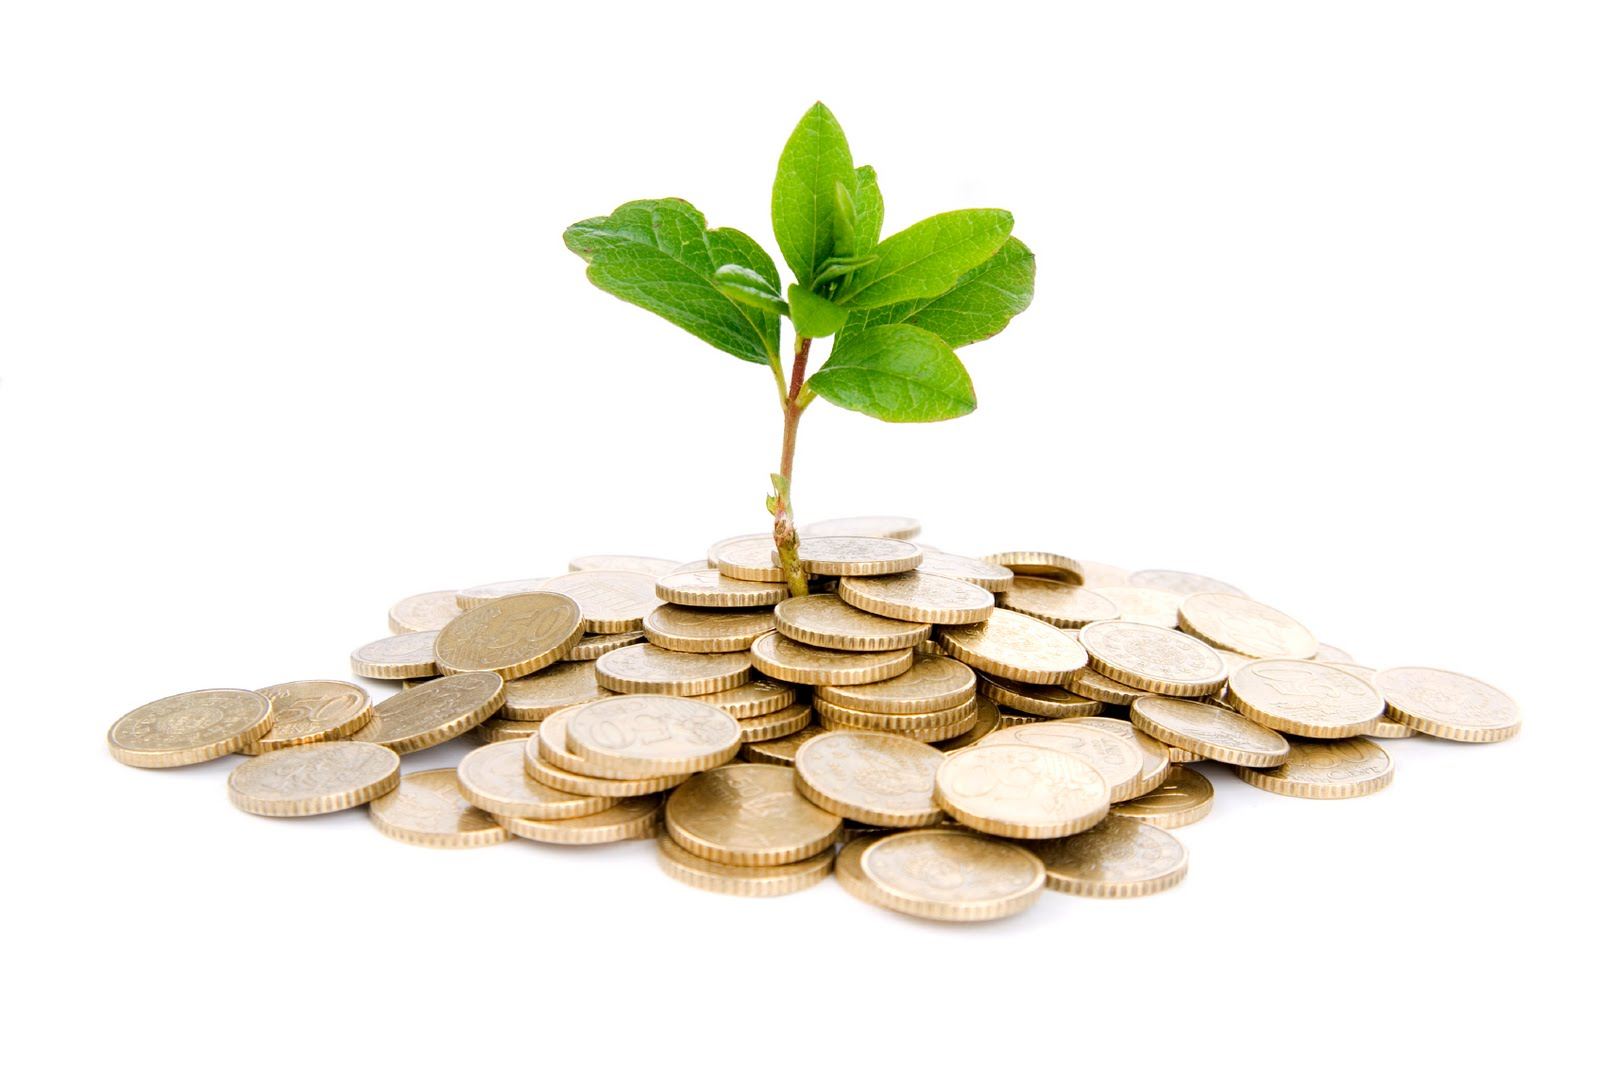
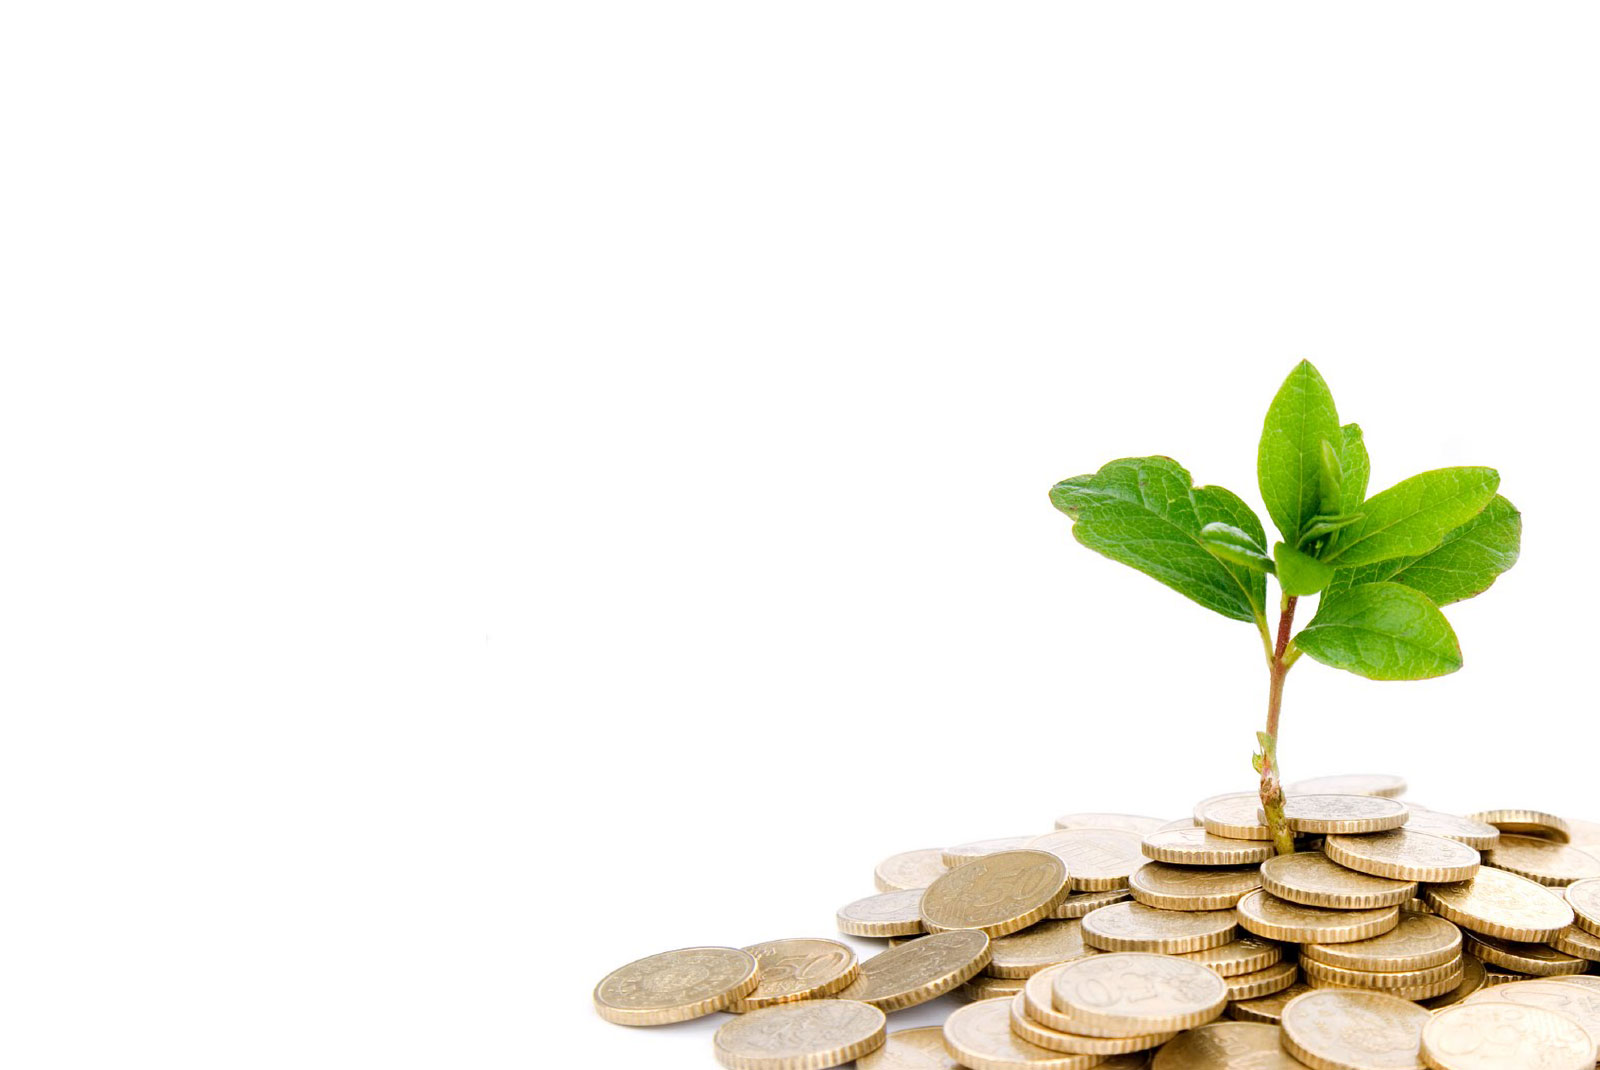
new bg

diff --git a/MySavings/css/default.css b/MySavings/css/default.css
@@ -1,7 +1,8 @@
 #contenthost {
     height: 100%;
     width: 100%;
-    background: url("../images/treemoney.jpg") repeat scroll 0 0 #F3F3F3;
+    background: url("../images/treemoney.jpg");
+    background-position:right bottom; 
     color: #000;
 }
 
